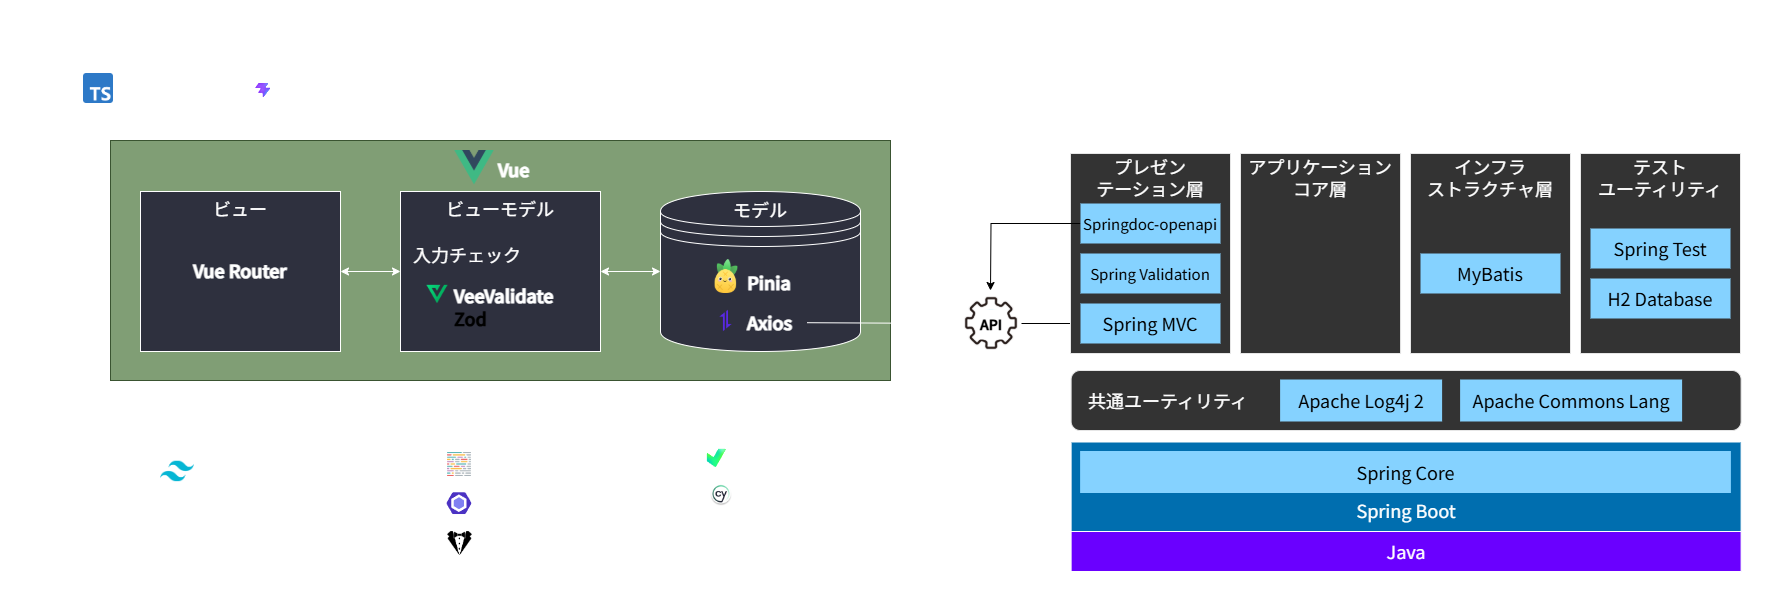
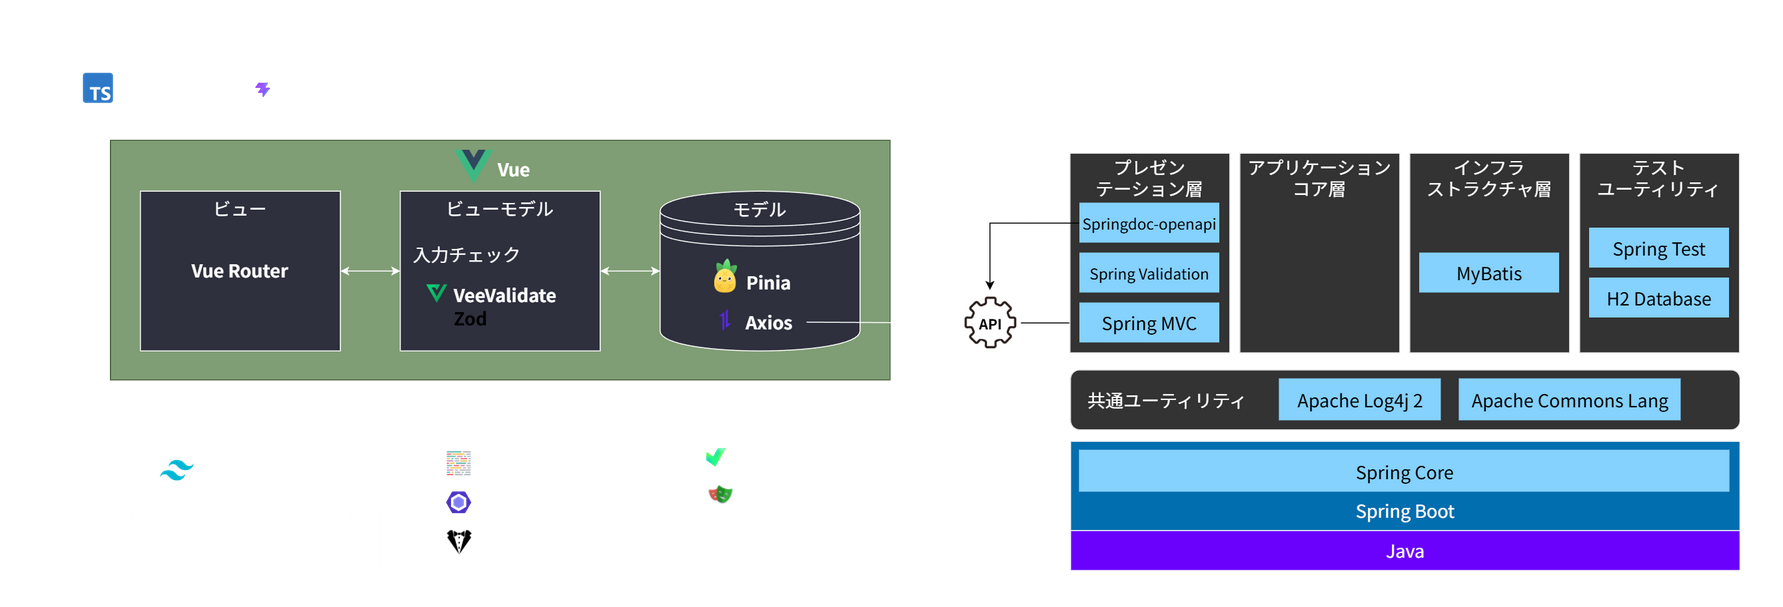
ドキュメントの Cypress に関する記載を Playwright ベースへ修正する (#5588)
E2E テストツールの Playwright 移行に合わせて、ドキュメント上の Cypress 前提の記載を修正しました。

- クレジットに Playwright を追加し、商標表記から Cypress を削除
- フォルダー構成・パッケージ一覧・create-vue の選択肢を Playwright に変更
- tsconfig と ESLint 設定の説明を Playwright 前提に修正
- 構成図のロゴと表記を Playwright に差し替え

diff --git a/documents/contents/about-maia/trademarks.md b/documents/contents/about-maia/trademarks.md
@@ -49,7 +49,6 @@ BIPROGY 株式会社からの許可がない場合、以下のように使用し
 - Git and the Git logo are either registered trademarks or trademarks of Software Freedom Conservancy, Inc., corporate home of the Git Project, in the United States and/or other countries.
 - The Tailwind name and logos are trademarks of Tailwind Labs Inc.
 - 「ESLint」およびそのロゴは OpenJS Foundation の商標または登録商標です。
-- 「Cypress」およびそのロゴは Cypress.io, Inc. の商標または登録商標です。
 - その他記載されている会社名・商品名などは、各社の商標および登録商標です。
 - 本サイトに記載の商品名、製品名、社名などには、必ずしも商標表示（ (R)、 TM ）を付記していません。
 

diff --git a/documents/contents/guidebooks/how-to-develop/csr/vue-js/static-verification-and-format.md b/documents/contents/guidebooks/how-to-develop/csr/vue-js/static-verification-and-format.md
@@ -171,17 +171,14 @@ configureVueProject({
 
 src フォルダーが eslint.config.ts の直下ではなくなるので、ワークスペース配下を検索するようにパスを修正します。
 
-```typescript hl_lines="3 8-9"
+```typescript hl_lines="3 7"
 {
   ...pluginVitest.configs.recommended,
   files: ['**/src/**/__tests__/**/*'],
 },
 {
-  ...pluginCypress.configs.recommended,
-  files: [
-    '**/cypress/e2e/**/*.{cy,spec}.{js,ts,jsx,tsx}',
-    '**/cypress/support/**/*.{js,ts,jsx,tsx}',
-  ],
+  ...pluginPlaywright.configs['flat/recommended'],
+  files: ['**/e2e/**/*.{spec,test}.{js,ts,jsx,tsx}'],
 },
 ```
 

diff --git a/documents/contents/about-maia/credits.md b/documents/contents/about-maia/credits.md
@@ -110,6 +110,14 @@ Copyright (c) 2015 - 2017 Maxime Thirouin, David Clark & Richard Hallows
 
 Copyright (c) 2021-Present VoidZero Inc. and Vitest contributors
 
+## Playwright {#playwright style="clear:both;" }
+
+![Playwright Logo](../images/about-maia/playwright-logo.svg){ align="left" width="96" }
+
+[Apache License 2.0 :material-open-in-new:](https://github.com/microsoft/playwright/blob/main/LICENSE){ target=_blank }
+
+Copyright (c) Microsoft Corporation
+
 ## Bootstrap {#bootstrap style="clear:both;" }
 
 ![Bootstrap Logo](../images/about-maia/bootstrap-logo.svg){ align="left" width="96" }

diff --git a/documents/contents/app-architecture/client-side-rendering/csr-architecture-overview.md b/documents/contents/app-architecture/client-side-rendering/csr-architecture-overview.md
@@ -72,7 +72,7 @@ AlesInfiny Maia OSS Edition （以降、 AlesInfiny Maia）において、クラ
 
           Vite 環境で動作する高速なテスティングフレームワークです。
 
-    - [Cypress :material-open-in-new:](https://www.cypress.io/){ target=_blank }
+    - [Playwright :material-open-in-new:](https://playwright.dev/){ target=_blank }
 
           E2E テストツールです。
 

diff --git a/documents/contents/guidebooks/how-to-develop/csr/vue-js/create-vuejs-blank-project.md b/documents/contents/guidebooks/how-to-develop/csr/vue-js/create-vuejs-blank-project.md
@@ -94,8 +94,8 @@ T  Vue.js - The Progressive JavaScript Framework
 —
 
 *  Select an End-to-End testing framework: (↑/↓ to navigate, enter to confirm)
-|    Playwright
-|  > Cypress (https://www.cypress.io/)
+|  > Playwright (https://playwright.dev/)
+|    Cypress
 |    Nightwatch
 —
 ```
